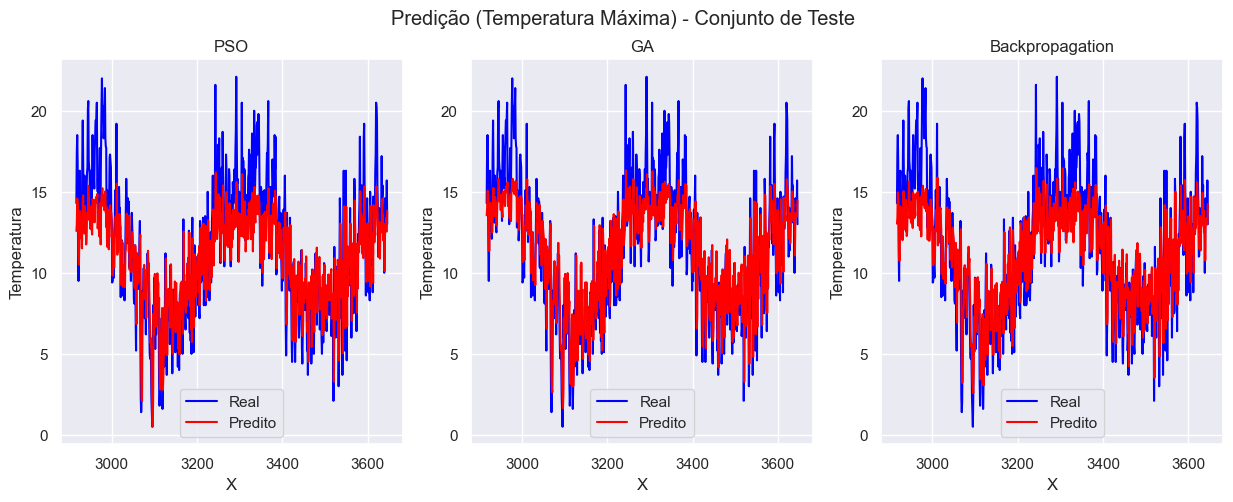
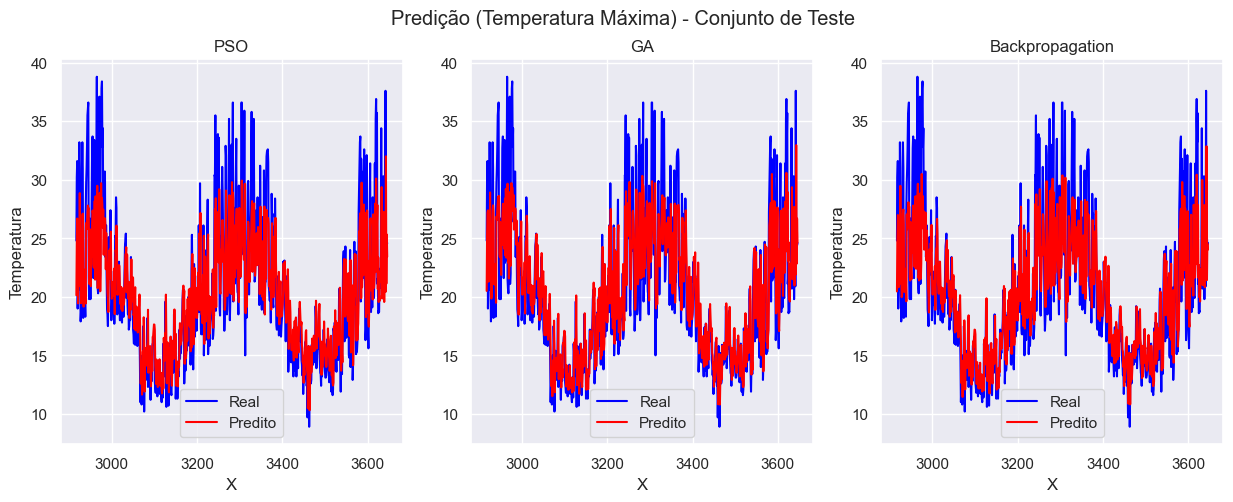
🐛 fix: change incorrect min_temps to max_temps

diff --git a/natural_computing_tasks/first_task/analysis/best_models.py b/natural_computing_tasks/first_task/analysis/best_models.py
@@ -32,7 +32,6 @@ scaler.fit(x_train)
 x_train_std = scaler.transform(x_train)
 x_test_std = scaler.transform(x_test)
 
-# min temperatures
 fig, axs = plt.subplots(1, 3, figsize=(15, 5))
 for i, method in enumerate(['pso', 'ga', 'backpropagation']):
     model = NeuralNetwork.load(f'best_models/prediction/{method}_min.pkl')
@@ -57,6 +56,14 @@ fig.suptitle('Predição (Temperatura Mínima) - Conjunto de Teste')
 fig.savefig('figures/pred_min_temp_curves.png', bbox_inches='tight')
 
 # max temperatures
+x, y = create_window(max_temps, window_size=3)
+(x_train, y_train), (x_test, y_test) = split_train_test(
+    x, y, 0.8, sequential=True)
+scaler = MinMaxScaler()
+scaler.fit(x_train)
+x_train_std = scaler.transform(x_train)
+x_test_std = scaler.transform(x_test)
+
 fig, axs = plt.subplots(1, 3, figsize=(15, 5))
 for i, method in enumerate(['pso', 'ga', 'backpropagation']):
     model = NeuralNetwork.load(f'best_models/prediction/{method}_max.pkl')
